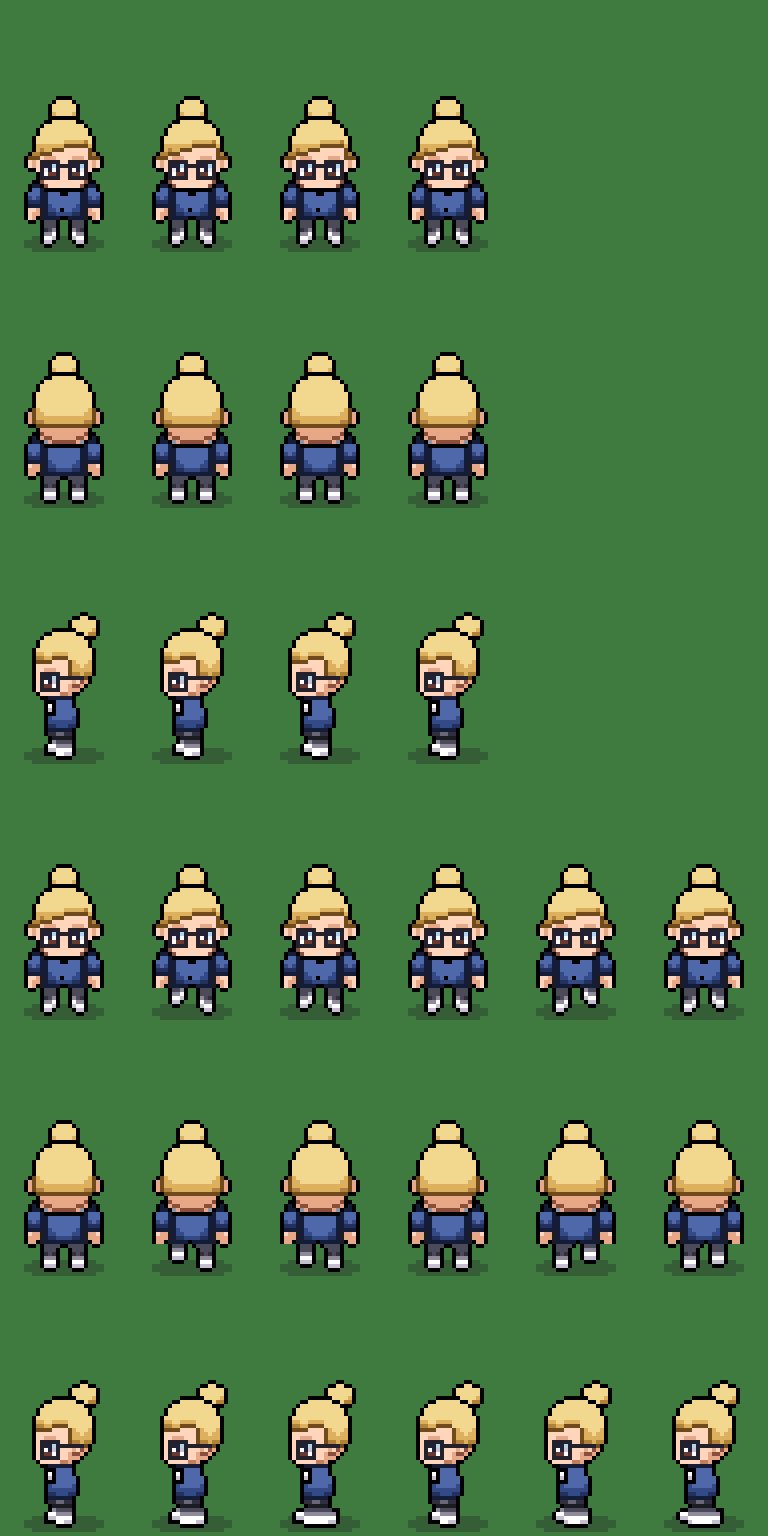
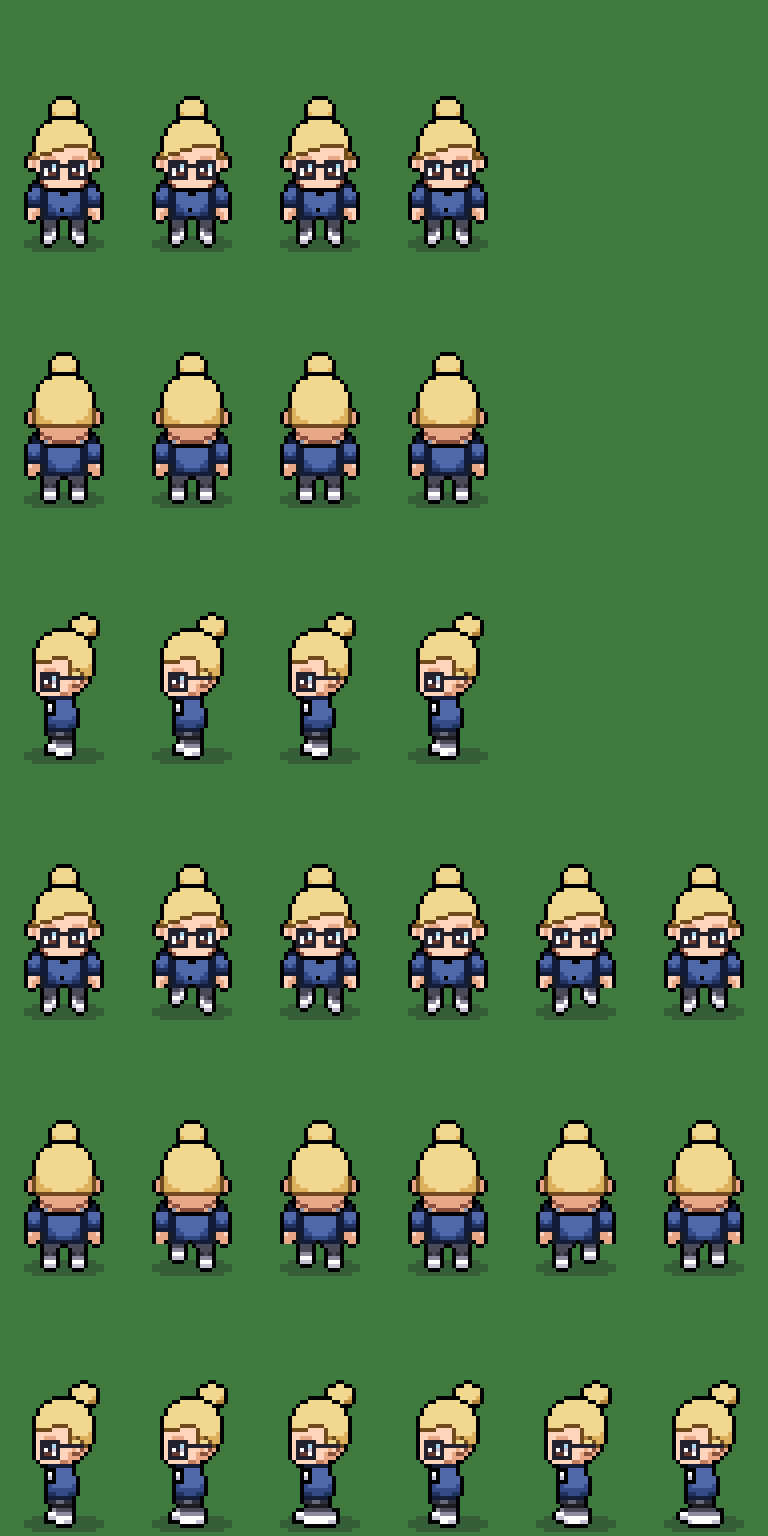
Characters: hair and headwear copy the reference head's shading
Each hair/hat pixel takes the shade index of the reference head pixel under it
(headShades), so the back of the head matches the reference exactly: flat lit
top, curved mid-shade band from the sides, darkest at the bottom.

Claude-Session: https://claude.ai/code/session_01AuTfW4RY5hqwpF1mFtvoZZ

diff --git a/scripts/gen-placeholders.ts b/scripts/gen-placeholders.ts
@@ -46,9 +46,14 @@ class Frame {
     return this.p.dir;
   }
   /** A shaded region with the black outline used by all character art. */
-  reg(ch: Ch | Ramp4, inside?: (x: number, y: number) => boolean, dim = 0): Region {
+  reg(
+    ch: Ch | Ramp4,
+    inside?: (x: number, y: number) => boolean,
+    dim = 0,
+    shadeAt?: (x: number, y: number) => number | undefined,
+  ): Region {
     const r = new Region(FRAME_W, FRAME_H, typeof ch === "string" ? KEY_RAMPS[ch] : ch);
-    this.ops.push(() => r.paint(this.c, 0, 0, { outlineColor: BLACK, inside, volume: true, dim }));
+    this.ops.push(() => r.paint(this.c, 0, 0, { outlineColor: BLACK, inside, volume: true, dim, shadeAt }));
     return r;
   }
   /** Region for clothing: soft edge where it meets the body/head, black on the outer silhouette. */
@@ -60,7 +65,13 @@ class Frame {
   /** Region for hair/headwear: black outline only on the head silhouette, soft edge where it meets skin. */
   headReg(ch: Ch): Region {
     const m = headMask(this.p);
-    return this.reg(ch, (x, y) => x >= 0 && y >= 0 && x < FRAME_W && y < FRAME_H && m[y * FRAME_W + x] === 1);
+    const shades = headShades(this.p);
+    return this.reg(
+      ch,
+      (x, y) => x >= 0 && y >= 0 && x < FRAME_W && y < FRAME_H && m[y * FRAME_W + x] === 1,
+      0,
+      (x, y) => shades[y * FRAME_W + x]! >= 0 ? shades[y * FRAME_W + x] : undefined,
+    );
   }
   /** Shift a painted key-ramp pixel one shade darker (d=-1) or lighter (d=+1). Outline/fixed colors untouched. */
   shift(x: number, y: number, d: number) {
@@ -176,6 +187,24 @@ function headMask(p: Pose): Uint8Array {
       if (hexAt(src, x, y) && ty >= 0 && ty < FRAME_H) m[ty * FRAME_W + x] = 1;
     }
   return m;
+}
+
+/**
+ * Shade index (0–3) of the reference head at each pixel, -1 where not skin.
+ * Hair and headwear copy this, so they carry exactly the reference head's shading.
+ */
+function headShades(p: Pose): Int8Array {
+  const src = BASE[p.dir].head;
+  const out = new Int8Array(FRAME_W * FRAME_H).fill(-1);
+  for (let y = 0; y < FRAME_H; y++)
+    for (let x = 0; x < FRAME_W; x++) {
+      const h = hexAt(src, x, y);
+      const ty = y + p.m.headDy;
+      if (!h || ty < 0 || ty >= FRAME_H) continue;
+      const i = (KEY_RAMPS.skin as readonly string[]).indexOf(h);
+      if (i >= 0) out[ty * FRAME_W + x] = i;
+    }
+  return out;
 }
 
 /** Body silhouette (torso, arms, legs — animated) for a pose. */

diff --git a/scripts/lib/pixel.ts b/scripts/lib/pixel.ts
@@ -121,6 +121,8 @@ export class Region {
       volume?: boolean;
       /** Shift the whole shape N shades darker (e.g. legs, which sit in the body's shadow). */
       dim?: number;
+      /** Explicit shade (0–3) per pixel, e.g. copied from the reference art; overrides `volume` where defined. */
+      shadeAt?: (x: number, y: number) => number | undefined;
     } = {},
   ): void {
     const run = (x: number, y: number, dx: number, dy: number) => {
@@ -136,6 +138,7 @@ export class Region {
         let shade = 2;
         if (opts.flat) shade = 2;
         else if (edge && outline) shade = 0;
+        else if (opts.shadeAt && opts.shadeAt(x, y) !== undefined) shade = opts.shadeAt(x, y)!;
         else if (opts.volume) {
           // Cel shading measured from the reference body (light from top-front):
           //  - one flat lit shade over most of the shape

diff --git a/CLAUDE.md b/CLAUDE.md
@@ -38,7 +38,7 @@ Full spec: `docs/spec.md`. Read it before changing anything in `shared/src/spec.
 - Items: `art/characters/items.json` (source) → copied to `client/public/assets/characters/items.json`. An item = slot + parts (layer + sheet) + channels (+ optional `unlock`).
 - Layer draw order per direction: `LAYER_ORDER` in `shared/src/avatar.ts` (facing up, back layers move in front).
 - The base body is split into `body` (torso/limbs) and `head` layers; `head` is drawn above top/outerwear so clothing never covers the chin. The chin/jaw extends below the head rows in the middle columns (`isChin` in `scripts/lib/pose.ts`: row 45 cols 10–21, row 46 cols 11–20) and is part of the head layer; shirts put the chin's cast shadow on row 47.
-- The head is an oval (reference silhouette). Hair and headwear are cut from that silhouette (`fromHead`) and must not grow outside it — otherwise the head reads as round. Use `f.headReg()` for them: black outline only on the outer silhouette, the ramp's dark shade where hair meets skin (no black line across the forehead).
+- The head is an oval (reference silhouette). Hair and headwear are cut from that silhouette (`fromHead`) and must not grow outside it — otherwise the head reads as round. Use `f.headReg()` for them — it copies the reference head's shade per pixel (`headShades`), so hair/hats carry exactly the reference shading; black outline only on the outer silhouette, the ramp's dark shade where hair meets skin (no black line across the forehead).
 - Shading = the reference's cel shading (`volume: true` in `Region.paint`): one flat lit shade, a curved terminator (mid shade starts ~55% down at the sides, lower toward the center), darkest shade only in bottom corners; legs one shade darker (`dim`). Clothing is cut from the animated body silhouette (`fromBody`), sleeves are separate outlined shapes, edges meeting skin are soft. Details are limited to the head's cast shadow and arm/torso separation — no strands or noise.
 - Compositor bakes each avatar once into a single texture (`client/src/game/avatar/compositor.ts`), cached by appearance.
 
